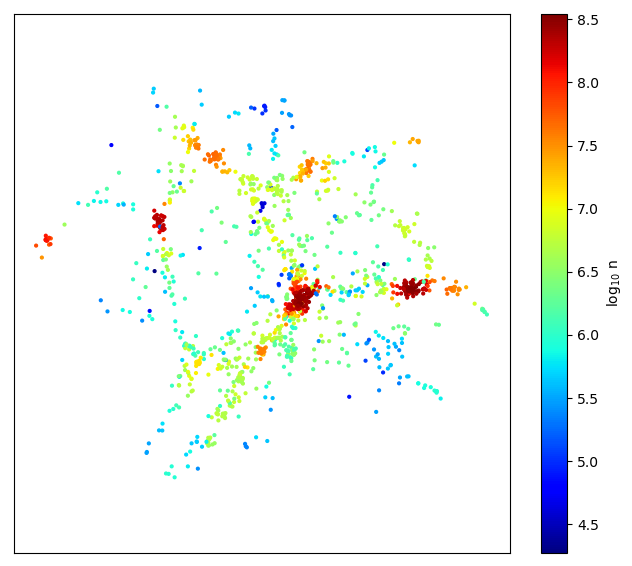
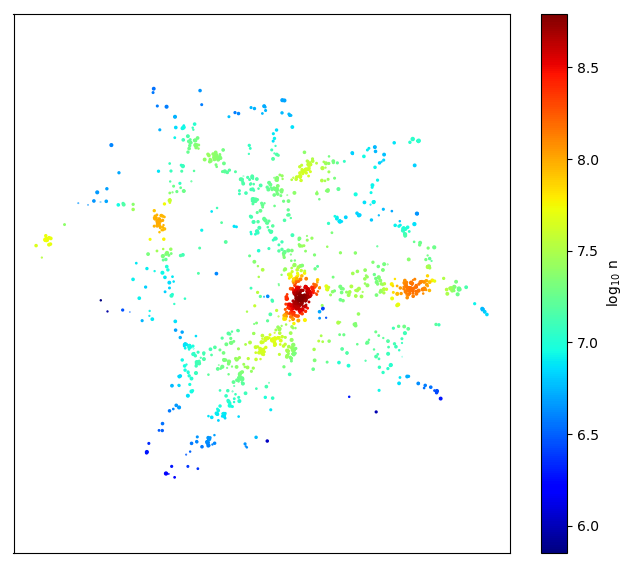
changed example to 2-d example

diff --git a/example.py b/example.py
@@ -3,13 +3,13 @@ import numpy as np
 import matplotlib.pyplot as plt
 
 XX = np.load('example_data.npy')
-X = XX[:,0:3]
+X = XX[:,0:2]
 w = XX[:,3]
 
 rho = MBEtree.modified_breiman_density(X, weights=w)
 
 fig, ax = plt.subplots(figsize=(8,7));
-h = ax.scatter(X[:,0], X[:,1], s=4, c=np.log10(rho), cmap='jet');
+h = ax.scatter(X[:,0], X[:,1], c=np.log10(rho), s=np.log10(w/np.min(w)), cmap='jet');
 ax.set_xticks([])
 ax.set_yticks([])
 ax.axis('equal')
